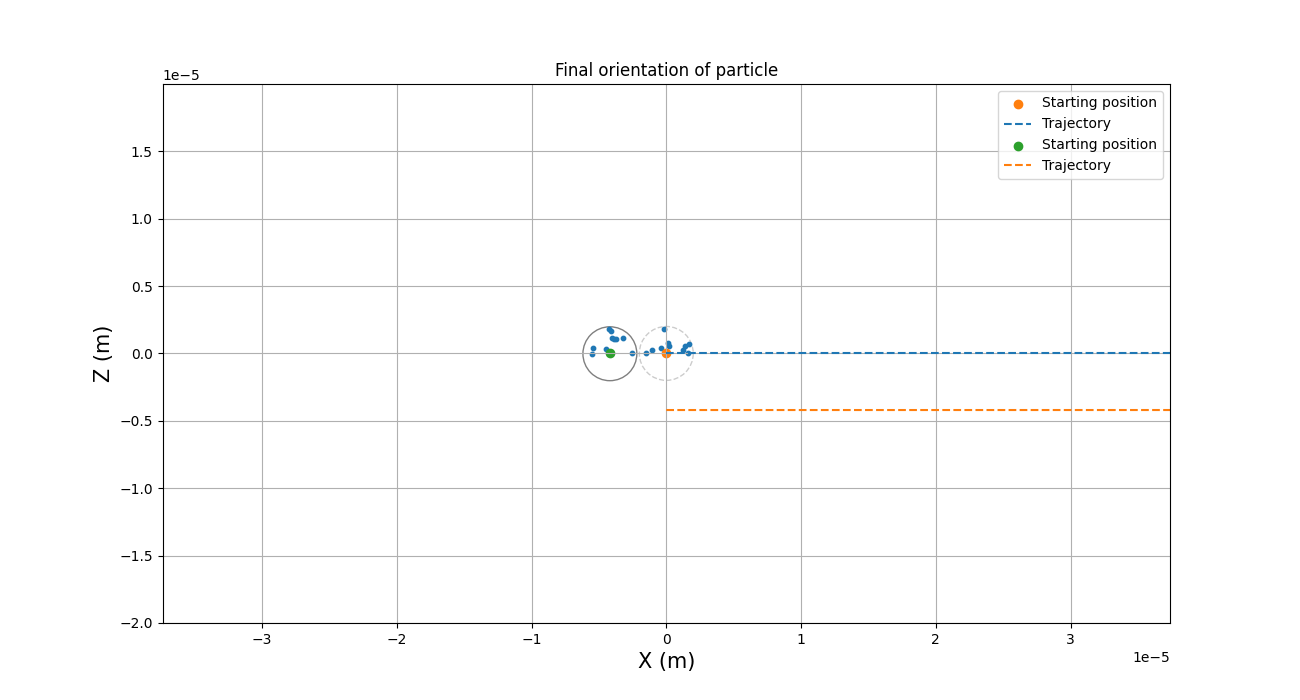
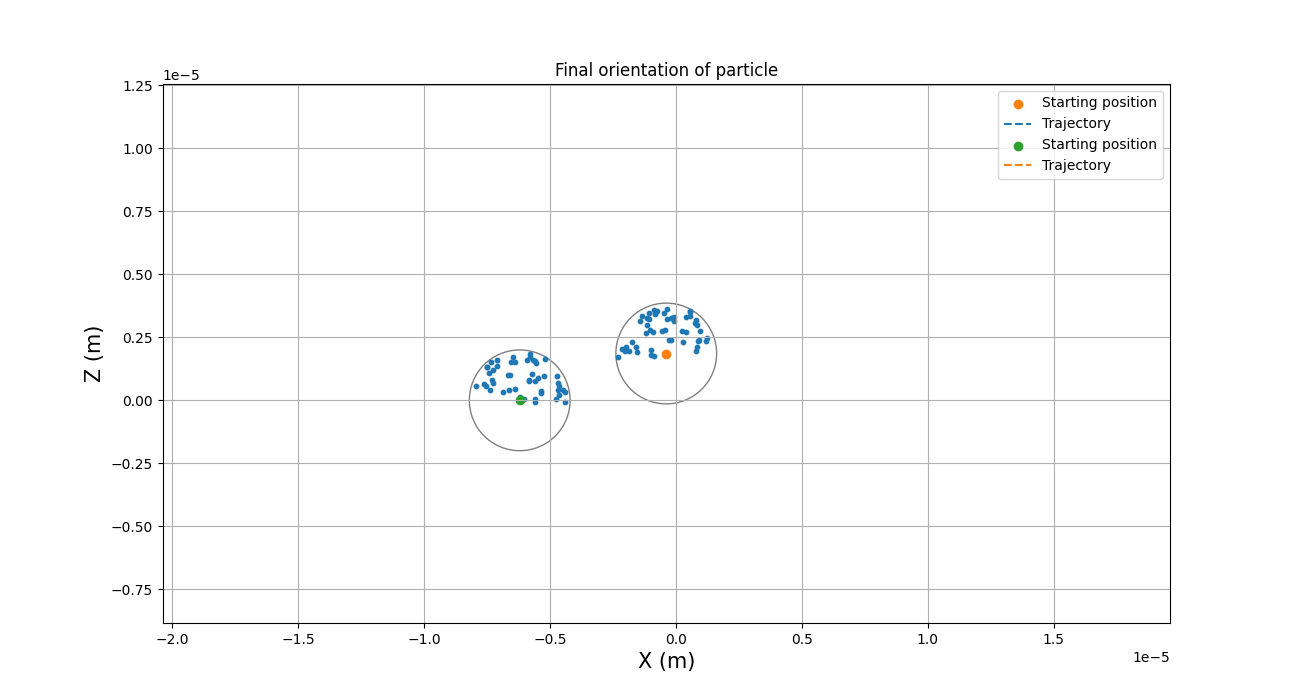
Now plots properly, more work needed on updating positions

diff --git a/thermophoresis/src/brownian_sim.cpp b/thermophoresis/src/brownian_sim.cpp
@@ -91,7 +91,7 @@ int main(int argc, char** argv) {
 		writeInitial << p.center.x << "," << p.center.y << "," << p.center.z << "\n";
 	}
 	
-	for(int time = 0; time < 5; time ++){ //Loop over timestep
+	for(int time = 0; time < 10; time ++){ //Loop over timestep
 
 		for(int n = 0; n<nParticles;n++){
 			particles[n] = getKinematics(particles[n],particles);
@@ -146,15 +146,13 @@ int main(int argc, char** argv) {
 								zGrad[i][j][k] 			   += perpendicularZ*25/1000;	
 								zGrad[i][j][k]   		   += tangentialZ*25/1000;
 							}
-
-							
 						}
 						
 
 						// Calculate progress percentage so that the user has something to look at
 						currentIteration++;
 						if(currentIteration % 500 == 0) {
-							float progress = round(static_cast<float>(currentIteration) / totalIterations * 100.0);
+							float progress = round(static_cast<float>(currentIteration) / (nParticles*totalIterations) * 100.0);
 							// Print progress bar
 							#pragma omp critical
 							{
@@ -303,15 +301,16 @@ Particle getKinematics(Particle particle,std::vector<Particle> particles){
 					double d = particle.getRadialDistance(point);
 					//Compute only the points near the surface
 					if (d > pow(particle.radius,2) && d < pow(particle.radius,2)+thickness){
-						
+						double gradientX = 0;
+						double gradientY = 0;
+						double gradientZ = 0;
+
 						for (auto p:particles){
 
-
-						
-							double gradientX = central_difference(i-dl,i+dl,j   ,j   ,k   ,k   ,p.deposits);
-							double gradientY = central_difference(i   ,i   ,j-dl,j+dl,k   ,k   ,p.deposits);
-							double gradientZ = central_difference(i   ,i   ,j   ,j   ,k-dl,k+dl,p.deposits);
-
+							gradientX += central_difference(i-dl,i+dl,j   ,j   ,k   ,k   ,p.deposits);
+							gradientY += central_difference(i   ,i   ,j-dl,j+dl,k   ,k   ,p.deposits);
+							gradientZ += central_difference(i   ,i   ,j   ,j   ,k-dl,k+dl,p.deposits);
+						}
 							//Project on normal vector:
 							double u				   = i-particle.center.x;
 							double v 				   = j-particle.center.y;
@@ -333,15 +332,11 @@ Particle getKinematics(Particle particle,std::vector<Particle> particles){
 							particle.selfPropulsion[1] += tangentialY*sin(theta)*cos(phi);
 							particle.selfPropulsion[2] += tangentialZ*sin(theta)*cos(phi);
 								
-						//Divide with particle radius to obtain angular velocity.
-						particle.selfRotation[0]   += tangentialX*sin(theta)*cos(phi)*thermoDiffusion/particleRadius; 
-						particle.selfRotation[1]   += tangentialY*sin(theta)*cos(phi)*thermoDiffusion/particleRadius;
-						particle.selfRotation[2]   += tangentialZ*sin(theta)*cos(phi)*thermoDiffusion/particleRadius;
-
+							//Divide with particle radius to obtain angular velocity.
+							particle.selfRotation[0]   += tangentialX*sin(theta)*cos(phi)*thermoDiffusion/particleRadius; 
+							particle.selfRotation[1]   += tangentialY*sin(theta)*cos(phi)*thermoDiffusion/particleRadius;
+							particle.selfRotation[2]   += tangentialZ*sin(theta)*cos(phi)*thermoDiffusion/particleRadius;						
 						
-						}
-					
-
 						counter++;
 
 					}

diff --git a/thermophoresis/time_evolution.py b/thermophoresis/time_evolution.py
@@ -19,10 +19,7 @@ from cython_functions import histogram2d_cython, gradient_cython
 font = 19
 pi = 3.14159
 particleRadius = 2e-6
-circle1 = Circle((0, 0), 2e-6)
-circle1.set(fill=False, linestyle='--', alpha=0.2)
-circle2 = Circle((0,0), 2e-6)
-circle2.set(fill=False,linestyle='--',alpha=0.2)
+
 
 imageBounds 	   = float(sys.argv[3])*1e-6
 spatialPeriodicity = float(sys.argv[4])*1e-9
@@ -72,21 +69,21 @@ def generateFigure(imageBounds):
 
 
 	xlim = [final['x'][0] - 2e-5, final['x'][0] + 2e-5]
-	ylim = [final['y'][0] - 2e-5, final['y'][0] + 2e-5]
+	ylim = [final['z'][0] - 2e-5, final['z'][0] + 2e-5]
 
-	circle1 = Circle((final['x'][0], final['y'][0]), 2e-6)
+	circle1 = Circle((final['x'][0], final['z'][0]), 2e-6)
 	circle1.set(fill=False, alpha=0.5)
 
-	circle1 = Circle((final['x'][1], final['y'][1]), 2e-6)
-	circle1.set(fill=False, alpha=0.5)
+	circle2 = Circle((final['x'][1], final['z'][1]), 2e-6)
+	circle2.set(fill=False, alpha=0.5)
 
 	ax.add_patch(circle1)
 	ax.add_patch(circle2)
 	ax.scatter(depositDF['x'][:],depositDF['z'][:],s=10)
 	#ax.scatter(lastPos[0],lastPos[1],label="Particle Center")
 	for i in range(len(initial['x'])):
-		ax.scatter(initial['x'][i],initial['y'][i],label="Starting position")
-		ax.plot([initial['x'][i],final['y'][i]],linestyle="--",label="Trajectory")	
+		ax.scatter(final['x'][i],final['z'][i]				,label="Starting position")
+		ax.plot(initial['x'][i],final['z'][i],linestyle="--",label="Trajectory")	
 	
 	
 	#ax.hlines(lastPos[1],lastPos[0],lastPos[0]+2e-6)

diff --git a/thermophoresis/src/functions.cpp b/thermophoresis/src/functions.cpp
@@ -12,7 +12,7 @@ using namespace std;
 std::vector<Particle> initializeParticles(){
 	//Create the coordinates
 	Point centerOfParticle1 = {0.0*particleRadius,0.0,0.0}; 
-	Point centerOfParticle2 = {-2.1*particleRadius,0.0,0.0}; 
+	Point centerOfParticle2 = {-3.1*particleRadius,0.0,0.0}; 
 
 	//Create the particles
 	Particle particle1(centerOfParticle1,particleRadius,0.0);
